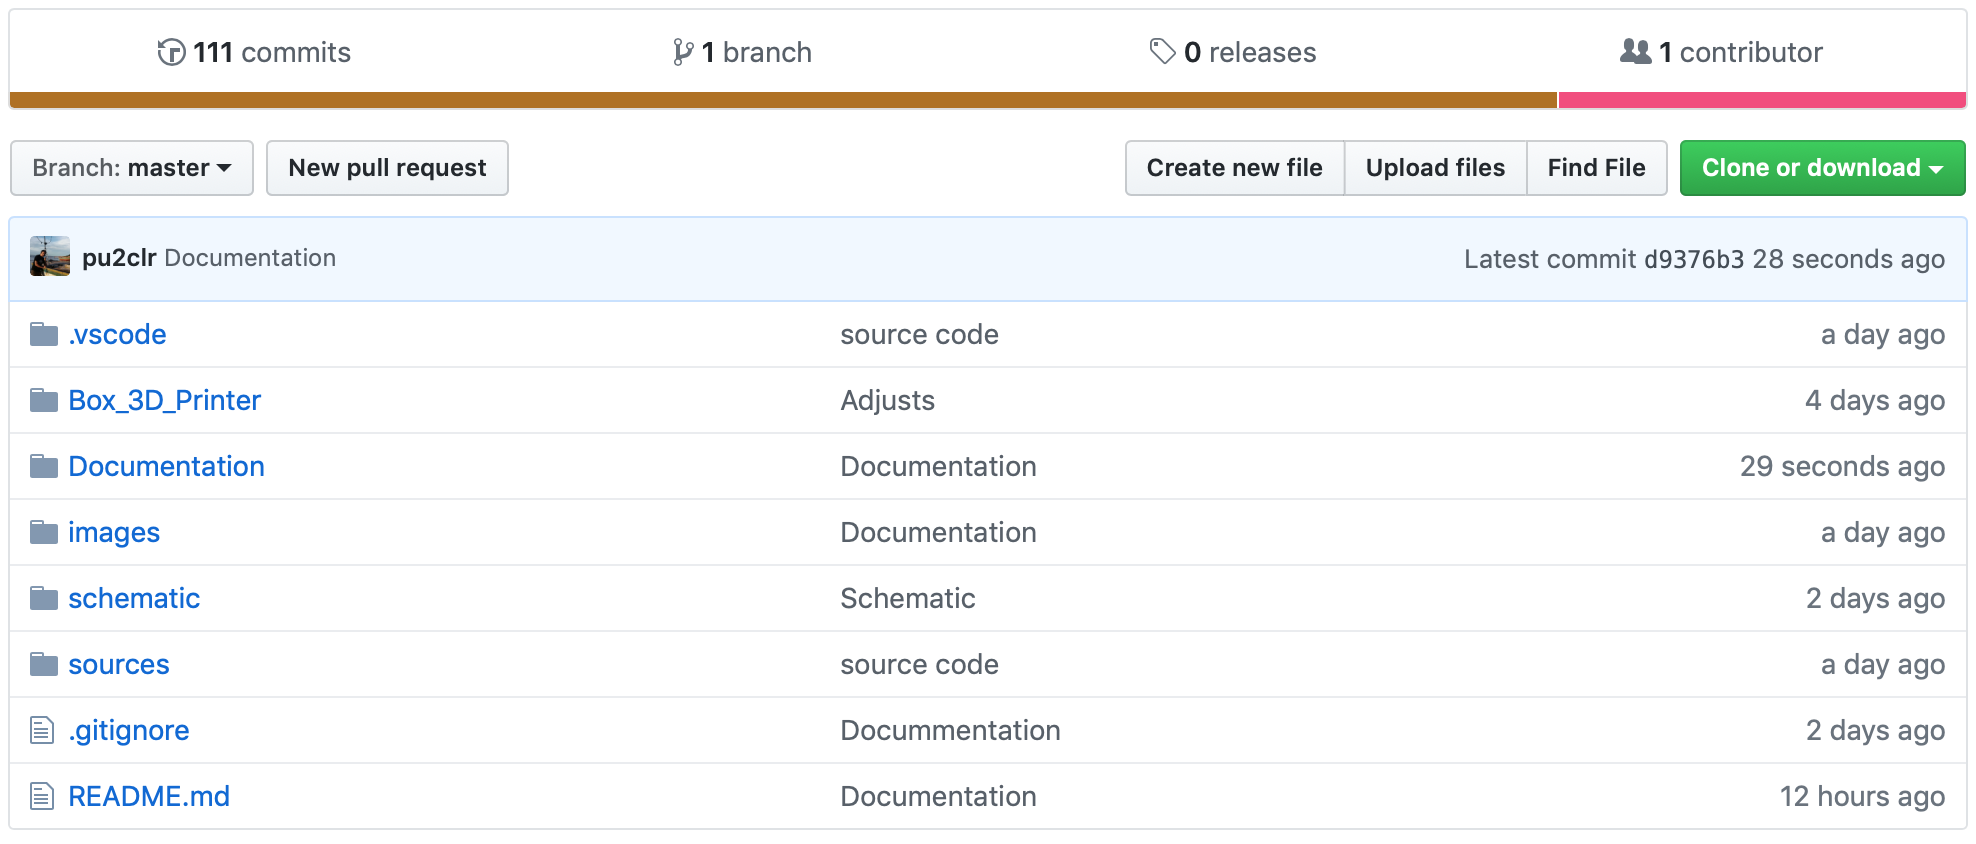
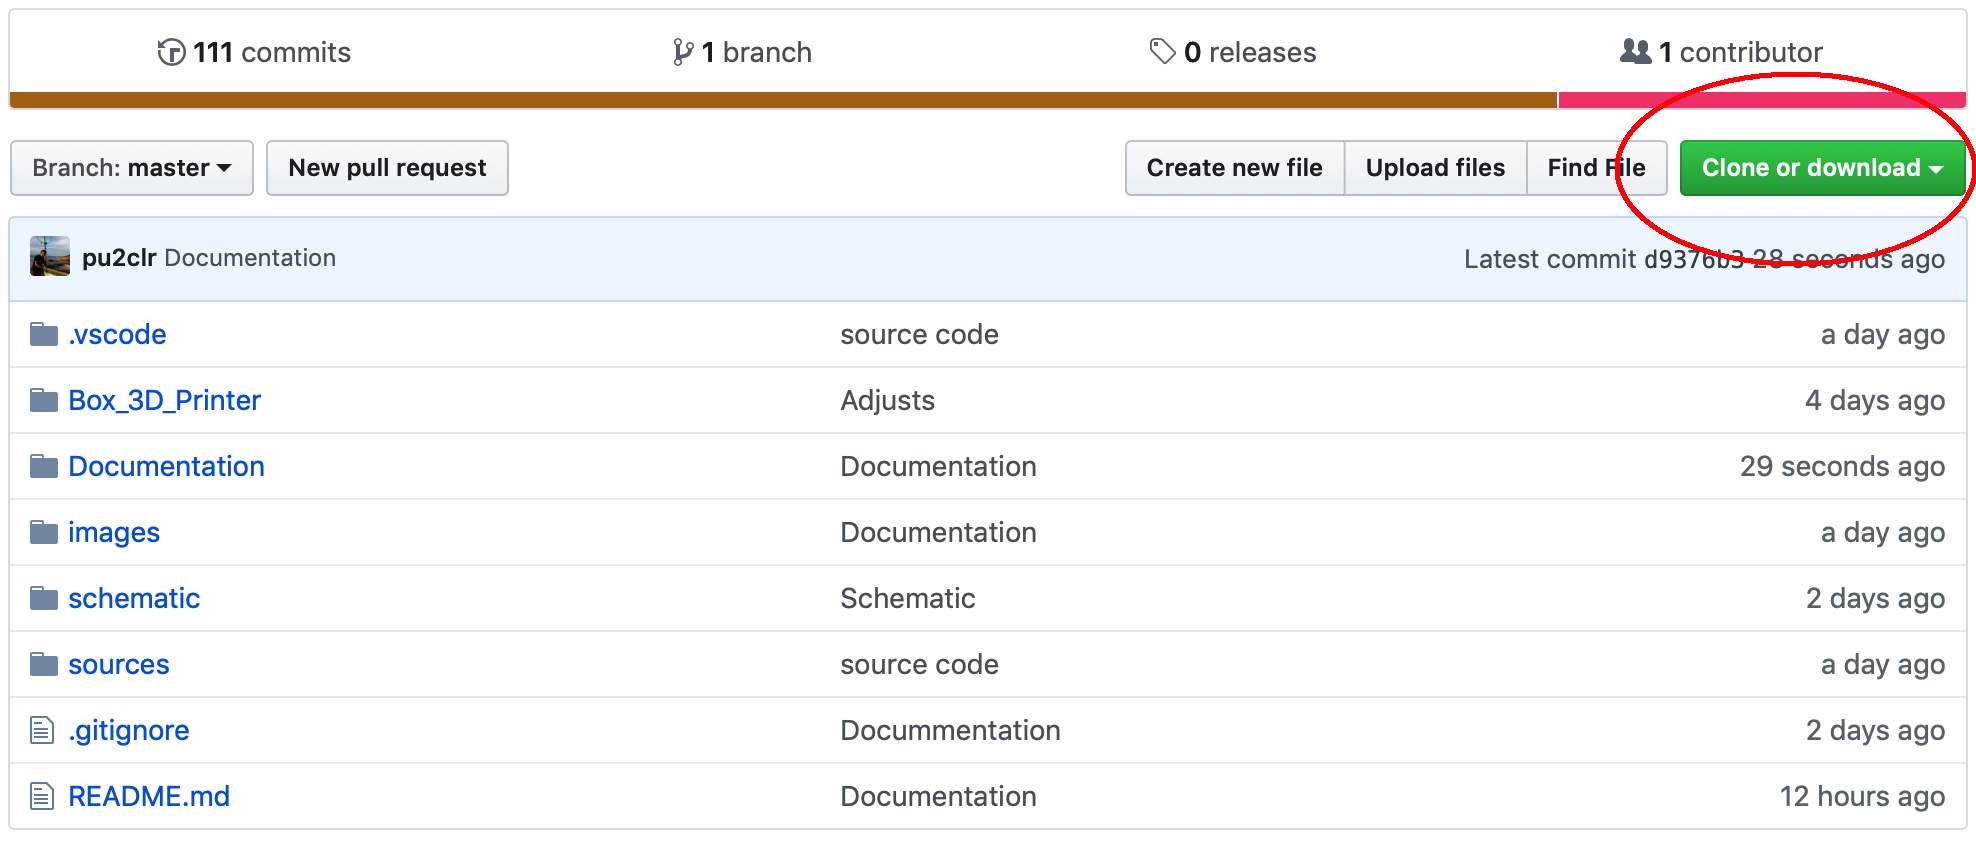
Documentation

diff --git a/Documentation/README.md b/Documentation/README.md
@@ -35,11 +35,10 @@ Este trabalho está organizado em pastas. Cada pasta possui o conteúdo descrito
 
 ## Como baixar os arquivos deste projeto (Download)
 
-A estrutura de pastas e arquivos descrita no item anterior é apresentada neste repositório de projetos conforme apresentado na figura a seguir. 
+A estrutura de pastas e arquivos descrita no item anterior é apresentada neste repositório de projetos conforme ilustra a figura a seguir. Clique [aqui](https://github.com/pu2clr/Magnetic_Loop_Antenna_Tuner.git) para entrar na página  e em seguinda clique no botão verde, à direita,  identificado por "Clone or Download". 
 
-<img src="https://github.com/pu2clr/Magnetic_Loop_Antenna_Tuner/blob/master/images/figura_download.png" alt="One capacitor schematic" >
+<img src="https://github.com/pu2clr/Magnetic_Loop_Antenna_Tuner/blob/master/images/figura_download.png" alt="Download do Projeto" >
 
-Toda a documentação deste projeto, incluindo código-fonte dos programas para Arduino e Android podem ser baixados clicando  [aqui](https://github.com/pu2clr/Magnetic_Loop_Antenna_Tuner.git).
 
 
 ## Código-fonte
